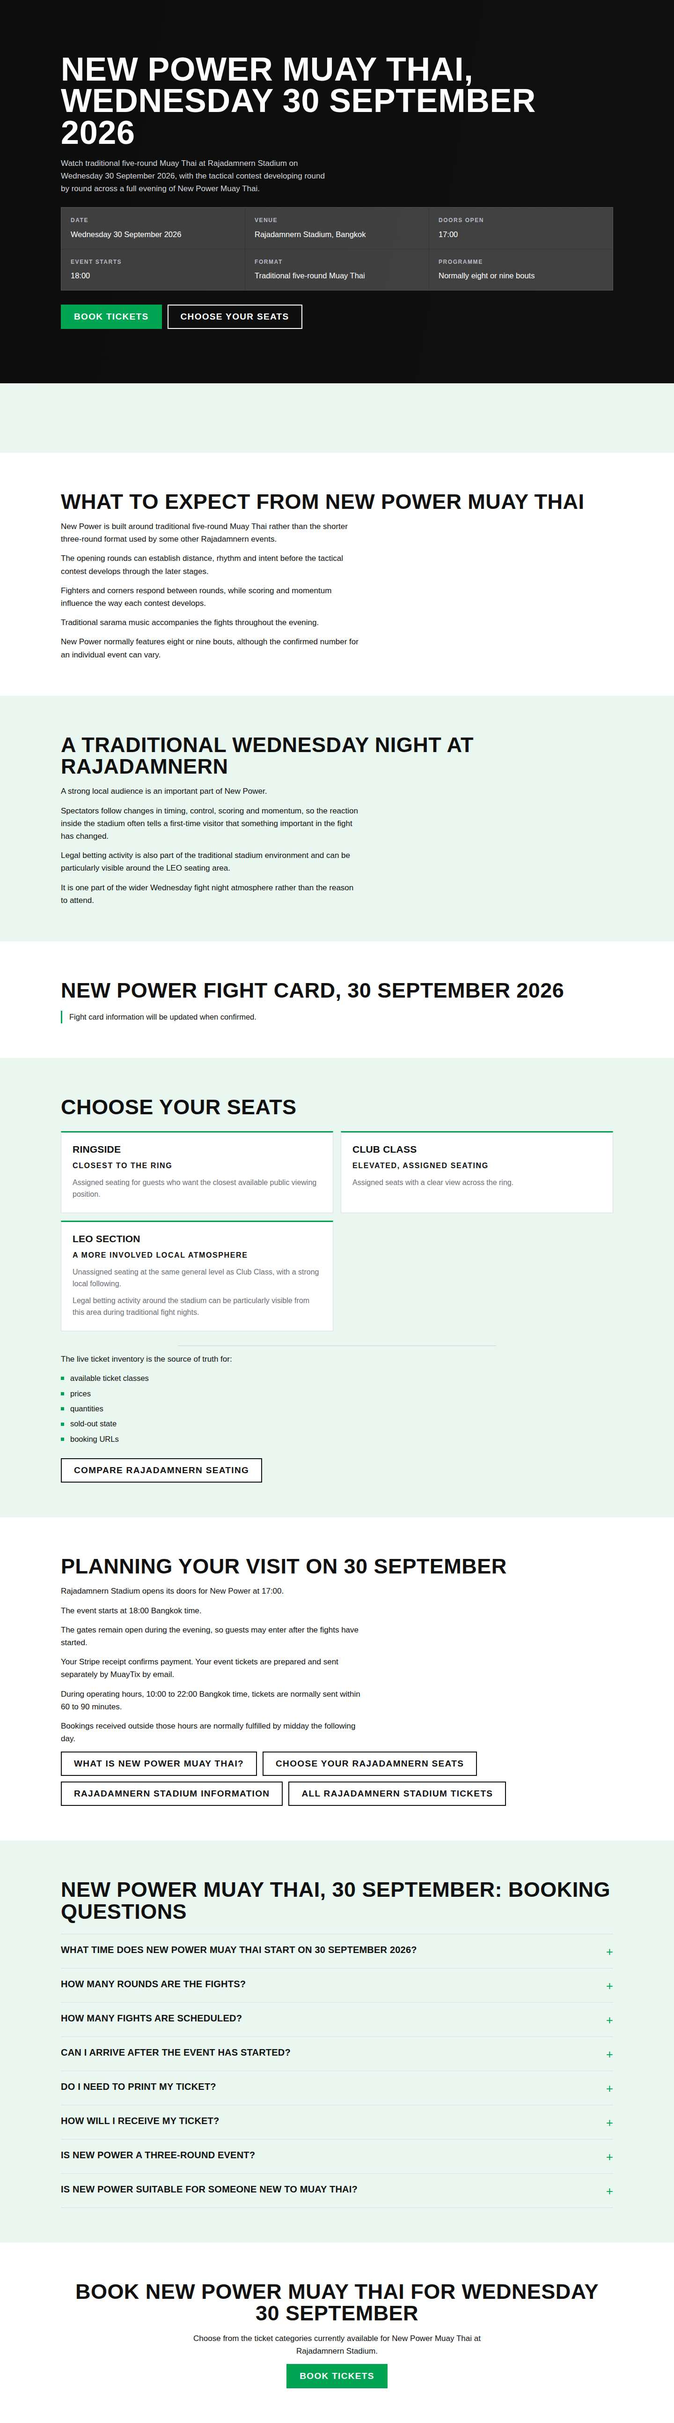
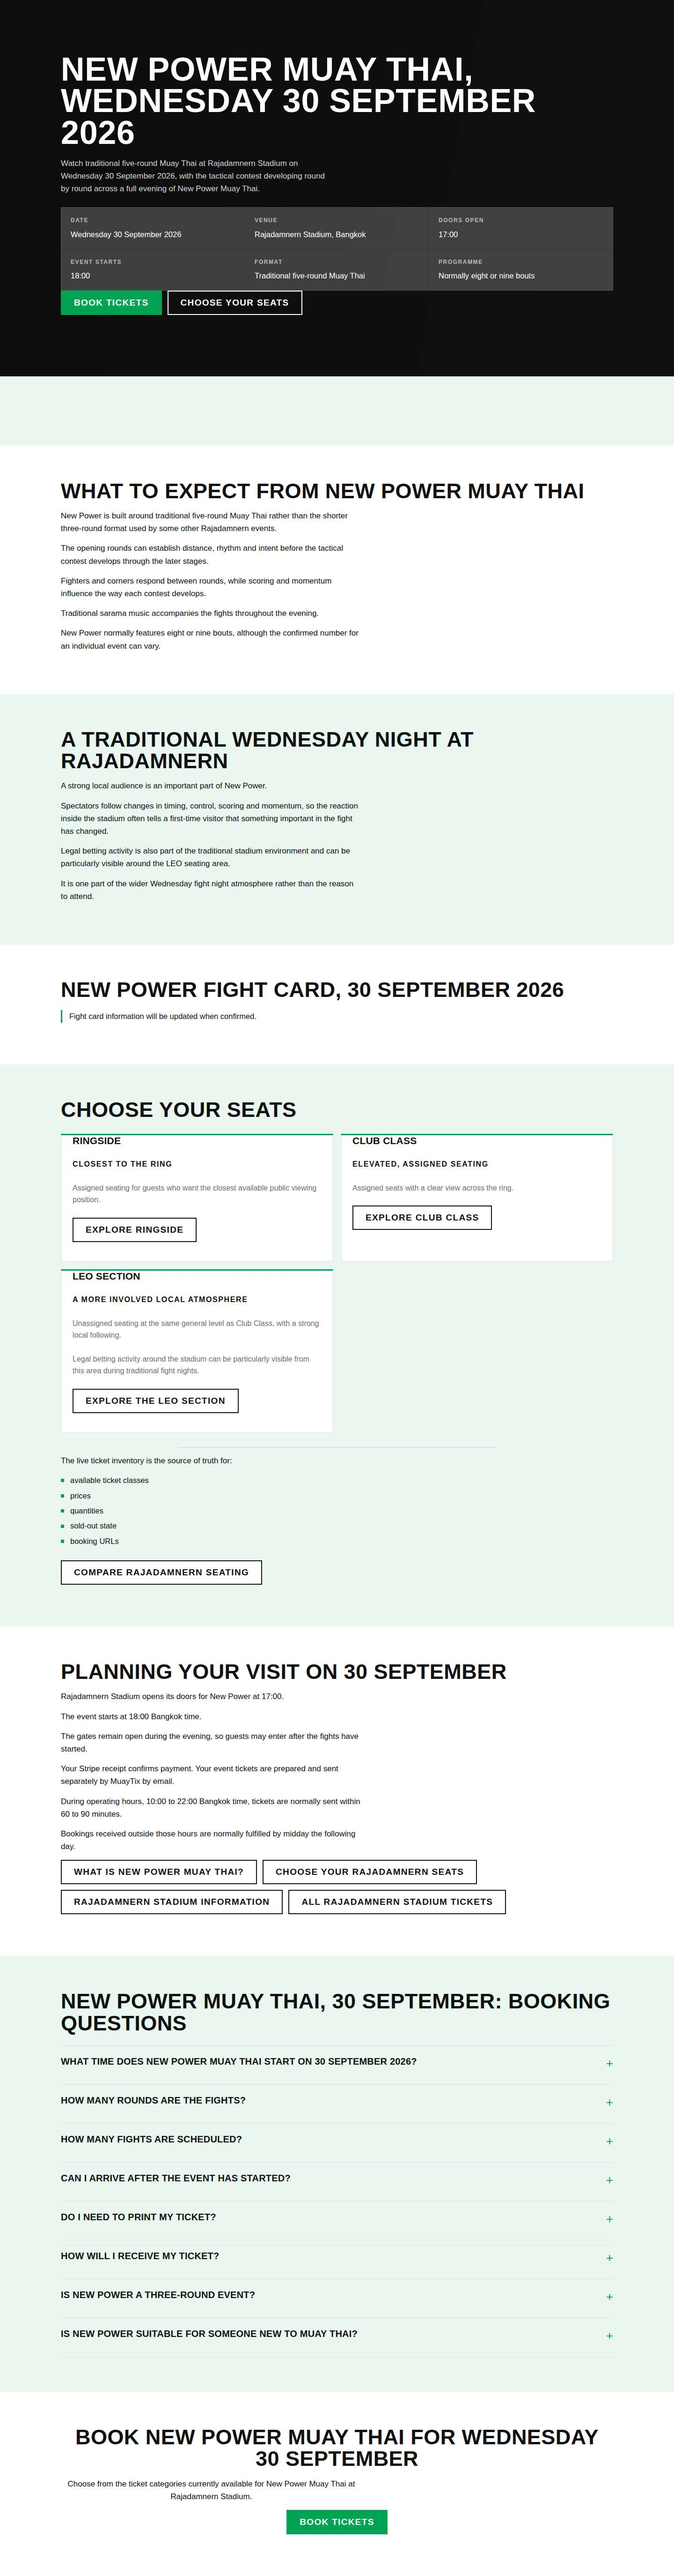
New Power: fix the desktop text-centering bug, add seat-card links
Root cause, found from Jason's screenshots of the live page: the page
wrapper was <div class="mtx-np"> with no id. Every other page in this
project wraps in id="mtx-xx" class="mtx-xx" specifically so it can
fight Tilda's own #allrecords * { text-align: center } with a rule
that also carries an ID (#mtx-xx.mtx-xx *), which then wins on equal
ID weight plus an extra class. New Power never had the id, so it had
nothing to fight back with -- Tilda's rule, an ID selector, beat every
single-class rule in this file outright. That is why it was "exactly
the same problem on exactly every single tile": one missing id, not a
design choice repeated badly section by section.

verify.mjs never caught it because it rendered on a blank page with
nothing competing, the same gap already documented and fixed in
pages/homepage-v6's own verify.mjs. Copied that fix here: TILDA_HOST
stand-in, #allrecords wrapper, and a dedicated check that fails if
anything comes back centred. Confirmed catching the bug against the
pre-fix CSS, then confirmed clean after.

Fix: id="mtx-np" added in build.mjs's wrapper, plus the standard
#mtx-np.mtx-np defensive block in style.css (text-align: left
everywhere, centred again for buttons and the closing band only, and
every button colour re-asserted against #allrecords a { color:
inherit }). This is one shared stylesheet, so it also un-centres the
dated page, which Jason asked not to be touched further today --
[…]

diff --git a/pages/new-power/hub-source.html b/pages/new-power/hub-source.html
@@ -9,7 +9,7 @@
   All visible wording is generated from document-a.txt, the approved editorial
   source. It is not typed into this file and must not be edited here.
 -->
-<div class="mtx-np">
+<div class="mtx-np" id="mtx-np">
 <style>
 /* All styles are scoped under .mtx-np so nothing here can affect the rest of
    the site, and the site's own styles are less likely to affect this block.
@@ -656,6 +656,46 @@
 /* The two Wednesday questions are open by default: Document A places them as
    body content in that section, not as a collapsed FAQ. */
 .mtx-np .mtx-np__faq { margin-top: 24px; }
+
+/* Every page in this project pastes into Tilda under one HTML block, and
+   Tilda's own host template carries `#allrecords * { text-align: center }`.
+   That is an ID selector, (1,0,0), and it beats every rule above here: none
+   of them sets text-align at all, so on the live page every lede, every
+   fact, every card title and every FAQ question came back centred, all for
+   the same reason, which is why it looked identical on every single tile.
+   This page was built without the ID every other page in this project
+   carries for exactly this fight (compare pages/homepage-v6/style.css or
+   pages/club-class/style.css). Found from a live screenshot, 30 September
+   2026, not caught here first: verify.mjs rendered on a blank page with
+   nothing competing, so it never saw this.
+
+   #mtx-np.mtx-np * is (1,1,1) and beats (1,0,0) outright, regardless of
+   source order. */
+#mtx-np.mtx-np,
+#mtx-np.mtx-np * { text-align: left; }
+
+/* The handful that genuinely centre are told again, one level higher. */
+#mtx-np.mtx-np .mtx-np__btn,
+#mtx-np.mtx-np .mtx-np__close,
+#mtx-np.mtx-np .mtx-np__close * { text-align: center; }
+
+/* Colour, stated the same way and for the same reason: a host rule shaped
+   like `#allrecords a { color: inherit }` is (1,0,1) and beats every
+   single-class button rule above it, which would have made the ghost and
+   outline buttons the same colour as the text around them. */
+#mtx-np.mtx-np a.mtx-np__btn--blue    { background: var(--np-blue); color: #fff; }
+#mtx-np.mtx-np a.mtx-np__btn--blue:hover    { background: var(--np-blue-dark); color: #fff; }
+#mtx-np.mtx-np a.mtx-np__btn--ghost   { background: transparent; border-color: #fff; color: #fff; }
+#mtx-np.mtx-np a.mtx-np__btn--ghost:hover   { background: #fff; color: var(--np-ink); }
+#mtx-np.mtx-np a.mtx-np__btn--outline { background: #fff; border-color: var(--np-ink); color: var(--np-ink); }
+#mtx-np.mtx-np a.mtx-np__btn--outline:hover { border-color: var(--np-blue); color: var(--np-blue); }
+#mtx-np.mtx-np a.mtx-np__btn--red     { background: var(--np-rws); color: #fff; }
+#mtx-np.mtx-np a.mtx-np__btn--red:hover     { background: var(--np-rws-dark); color: #fff; }
+
+/* The new per-class link on each seat card (Ringside, Club Class, LEO
+   Section). Third Class has no page yet, so its card gets no button, same
+   as everywhere else this has come up. */
+.mtx-np__cardgo { margin-top: 16px !important; }
 </style>
 
   <header class="mtx-np__hero">
@@ -729,6 +769,7 @@
           <h3>Ringside</h3>
           <p class="mtx-np__standfirst">Closest to the ring</p>
           <p>Assigned seating for guests who want the closest available public viewing position.</p>
+          <p class="mtx-np__cardgo"><a class="mtx-np__btn mtx-np__btn--outline" href="/rajadamnern-stadium-seating/ringside">Explore Ringside</a></p>
         </li>
 
         <li class="mtx-np__card mtx-np__card--gfx">
@@ -736,6 +777,7 @@
           <h3>Club Class</h3>
           <p class="mtx-np__standfirst">Elevated, assigned seating</p>
           <p>Assigned seats with a clear view across the ring.</p>
+          <p class="mtx-np__cardgo"><a class="mtx-np__btn mtx-np__btn--outline" href="/rajadamnern-stadium-seating/club-class">Explore Club Class</a></p>
         </li>
 
         <li class="mtx-np__card mtx-np__card--gfx">
@@ -744,6 +786,7 @@
           <p class="mtx-np__standfirst">A more involved local atmosphere</p>
           <p>Unassigned seating at the same general level as Club Class, with a strong local following.</p>
           <p>Legal betting activity around the stadium can be particularly visible from this area during traditional fight nights.</p>
+          <p class="mtx-np__cardgo"><a class="mtx-np__btn mtx-np__btn--outline" href="/rajadamnern-stadium-seating/leo-section">Explore the LEO Section</a></p>
         </li>
 
         <li class="mtx-np__card mtx-np__card--gfx">

diff --git a/pages/new-power/dated-source.html b/pages/new-power/dated-source.html
@@ -9,7 +9,7 @@
   All visible wording is generated from document-a.txt, the approved editorial
   source. It is not typed into this file and must not be edited here.
 -->
-<div class="mtx-np">
+<div class="mtx-np" id="mtx-np">
 <style>
 /* All styles are scoped under .mtx-np so nothing here can affect the rest of
    the site, and the site's own styles are less likely to affect this block.
@@ -656,6 +656,46 @@
 /* The two Wednesday questions are open by default: Document A places them as
    body content in that section, not as a collapsed FAQ. */
 .mtx-np .mtx-np__faq { margin-top: 24px; }
+
+/* Every page in this project pastes into Tilda under one HTML block, and
+   Tilda's own host template carries `#allrecords * { text-align: center }`.
+   That is an ID selector, (1,0,0), and it beats every rule above here: none
+   of them sets text-align at all, so on the live page every lede, every
+   fact, every card title and every FAQ question came back centred, all for
+   the same reason, which is why it looked identical on every single tile.
+   This page was built without the ID every other page in this project
+   carries for exactly this fight (compare pages/homepage-v6/style.css or
+   pages/club-class/style.css). Found from a live screenshot, 30 September
+   2026, not caught here first: verify.mjs rendered on a blank page with
+   nothing competing, so it never saw this.
+
+   #mtx-np.mtx-np * is (1,1,1) and beats (1,0,0) outright, regardless of
+   source order. */
+#mtx-np.mtx-np,
+#mtx-np.mtx-np * { text-align: left; }
+
+/* The handful that genuinely centre are told again, one level higher. */
+#mtx-np.mtx-np .mtx-np__btn,
+#mtx-np.mtx-np .mtx-np__close,
+#mtx-np.mtx-np .mtx-np__close * { text-align: center; }
+
+/* Colour, stated the same way and for the same reason: a host rule shaped
+   like `#allrecords a { color: inherit }` is (1,0,1) and beats every
+   single-class button rule above it, which would have made the ghost and
+   outline buttons the same colour as the text around them. */
+#mtx-np.mtx-np a.mtx-np__btn--blue    { background: var(--np-blue); color: #fff; }
+#mtx-np.mtx-np a.mtx-np__btn--blue:hover    { background: var(--np-blue-dark); color: #fff; }
+#mtx-np.mtx-np a.mtx-np__btn--ghost   { background: transparent; border-color: #fff; color: #fff; }
+#mtx-np.mtx-np a.mtx-np__btn--ghost:hover   { background: #fff; color: var(--np-ink); }
+#mtx-np.mtx-np a.mtx-np__btn--outline { background: #fff; border-color: var(--np-ink); color: var(--np-ink); }
+#mtx-np.mtx-np a.mtx-np__btn--outline:hover { border-color: var(--np-blue); color: var(--np-blue); }
+#mtx-np.mtx-np a.mtx-np__btn--red     { background: var(--np-rws); color: #fff; }
+#mtx-np.mtx-np a.mtx-np__btn--red:hover     { background: var(--np-rws-dark); color: #fff; }
+
+/* The new per-class link on each seat card (Ringside, Club Class, LEO
+   Section). Third Class has no page yet, so its card gets no button, same
+   as everywhere else this has come up. */
+.mtx-np__cardgo { margin-top: 16px !important; }
 </style>
 
   <header class="mtx-np__hero">
@@ -724,6 +764,7 @@
           <h3>Ringside</h3>
           <p class="mtx-np__standfirst">Closest to the ring</p>
           <p>Assigned seating for guests who want the closest available public viewing position.</p>
+          <p class="mtx-np__cardgo"><a class="mtx-np__btn mtx-np__btn--outline" href="/rajadamnern-stadium-seating/ringside">Explore Ringside</a></p>
         </li>
 
         <li class="mtx-np__card mtx-np__card--gfx">
@@ -731,6 +772,7 @@
           <h3>Club Class</h3>
           <p class="mtx-np__standfirst">Elevated, assigned seating</p>
           <p>Assigned seats with a clear view across the ring.</p>
+          <p class="mtx-np__cardgo"><a class="mtx-np__btn mtx-np__btn--outline" href="/rajadamnern-stadium-seating/club-class">Explore Club Class</a></p>
         </li>
 
         <li class="mtx-np__card mtx-np__card--gfx">
@@ -739,6 +781,7 @@
           <p class="mtx-np__standfirst">A more involved local atmosphere</p>
           <p>Unassigned seating at the same general level as Club Class, with a strong local following.</p>
           <p>Legal betting activity around the stadium can be particularly visible from this area during traditional fight nights.</p>
+          <p class="mtx-np__cardgo"><a class="mtx-np__btn mtx-np__btn--outline" href="/rajadamnern-stadium-seating/leo-section">Explore the LEO Section</a></p>
         </li>
       </ul>
         <p class="mtx-np__maplayout">

diff --git a/pages/new-power/new-power-HUB-PASTE-INTO-TILDA.html b/pages/new-power/new-power-HUB-PASTE-INTO-TILDA.html
@@ -1,4 +1,4 @@
-<div class="mtx-np">
+<div class="mtx-np" id="mtx-np">
 <style>.mtx-np, .mtx-np * { box-sizing: border-box; }
 .mtx-np {
   
@@ -476,7 +476,25 @@
 @media (max-width: 860px) { .mtx-np .mtx-np__factlist { grid-template-columns: repeat(2, minmax(0, 1fr)); } }
 @media (max-width: 620px) { .mtx-np .mtx-np__factlist { grid-template-columns: 1fr; } }
 
-.mtx-np .mtx-np__faq { margin-top: 24px; }</style>
+.mtx-np .mtx-np__faq { margin-top: 24px; }
+
+#mtx-np.mtx-np,
+#mtx-np.mtx-np * { text-align: left; }
+
+#mtx-np.mtx-np .mtx-np__btn,
+#mtx-np.mtx-np .mtx-np__close,
+#mtx-np.mtx-np .mtx-np__close * { text-align: center; }
+
+#mtx-np.mtx-np a.mtx-np__btn--blue    { background: var(--np-blue); color: #fff; }
+#mtx-np.mtx-np a.mtx-np__btn--blue:hover    { background: var(--np-blue-dark); color: #fff; }
+#mtx-np.mtx-np a.mtx-np__btn--ghost   { background: transparent; border-color: #fff; color: #fff; }
+#mtx-np.mtx-np a.mtx-np__btn--ghost:hover   { background: #fff; color: var(--np-ink); }
+#mtx-np.mtx-np a.mtx-np__btn--outline { background: #fff; border-color: var(--np-ink); color: var(--np-ink); }
+#mtx-np.mtx-np a.mtx-np__btn--outline:hover { border-color: var(--np-blue); color: var(--np-blue); }
+#mtx-np.mtx-np a.mtx-np__btn--red     { background: var(--np-rws); color: #fff; }
+#mtx-np.mtx-np a.mtx-np__btn--red:hover     { background: var(--np-rws-dark); color: #fff; }
+
+.mtx-np__cardgo { margin-top: 16px !important; }</style>
 
   <header class="mtx-np__hero">
       <p class="mtx-np__plain">The Garuda appears across Rajadamnern Stadium’s immersive dome above the Muay Thai ring, with green light beams illuminating the packed arena during New Power Muay Thai in Bangkok.</p>
@@ -549,6 +567,7 @@
           <h3>Ringside</h3>
           <p class="mtx-np__standfirst">Closest to the ring</p>
           <p>Assigned seating for guests who want the closest available public viewing position.</p>
+          <p class="mtx-np__cardgo"><a class="mtx-np__btn mtx-np__btn--outline" href="/rajadamnern-stadium-seating/ringside">Explore Ringside</a></p>
         </li>
 
         <li class="mtx-np__card mtx-np__card--gfx">
@@ -556,6 +575,7 @@
           <h3>Club Class</h3>
           <p class="mtx-np__standfirst">Elevated, assigned seating</p>
           <p>Assigned seats with a clear view across the ring.</p>
+          <p class="mtx-np__cardgo"><a class="mtx-np__btn mtx-np__btn--outline" href="/rajadamnern-stadium-seating/club-class">Explore Club Class</a></p>
         </li>
 
         <li class="mtx-np__card mtx-np__card--gfx">
@@ -564,6 +584,7 @@
           <p class="mtx-np__standfirst">A more involved local atmosphere</p>
           <p>Unassigned seating at the same general level as Club Class, with a strong local following.</p>
           <p>Legal betting activity around the stadium can be particularly visible from this area during traditional fight nights.</p>
+          <p class="mtx-np__cardgo"><a class="mtx-np__btn mtx-np__btn--outline" href="/rajadamnern-stadium-seating/leo-section">Explore the LEO Section</a></p>
         </li>
 
         <li class="mtx-np__card mtx-np__card--gfx">

diff --git a/pages/new-power/new-power-30-SEP-PASTE-INTO-TILDA.html b/pages/new-power/new-power-30-SEP-PASTE-INTO-TILDA.html
@@ -1,4 +1,4 @@
-<div class="mtx-np">
+<div class="mtx-np" id="mtx-np">
 <style>.mtx-np, .mtx-np * { box-sizing: border-box; }
 .mtx-np {
   
@@ -476,7 +476,25 @@
 @media (max-width: 860px) { .mtx-np .mtx-np__factlist { grid-template-columns: repeat(2, minmax(0, 1fr)); } }
 @media (max-width: 620px) { .mtx-np .mtx-np__factlist { grid-template-columns: 1fr; } }
 
-.mtx-np .mtx-np__faq { margin-top: 24px; }</style>
+.mtx-np .mtx-np__faq { margin-top: 24px; }
+
+#mtx-np.mtx-np,
+#mtx-np.mtx-np * { text-align: left; }
+
+#mtx-np.mtx-np .mtx-np__btn,
+#mtx-np.mtx-np .mtx-np__close,
+#mtx-np.mtx-np .mtx-np__close * { text-align: center; }
+
+#mtx-np.mtx-np a.mtx-np__btn--blue    { background: var(--np-blue); color: #fff; }
+#mtx-np.mtx-np a.mtx-np__btn--blue:hover    { background: var(--np-blue-dark); color: #fff; }
+#mtx-np.mtx-np a.mtx-np__btn--ghost   { background: transparent; border-color: #fff; color: #fff; }
+#mtx-np.mtx-np a.mtx-np__btn--ghost:hover   { background: #fff; color: var(--np-ink); }
+#mtx-np.mtx-np a.mtx-np__btn--outline { background: #fff; border-color: var(--np-ink); color: var(--np-ink); }
+#mtx-np.mtx-np a.mtx-np__btn--outline:hover { border-color: var(--np-blue); color: var(--np-blue); }
+#mtx-np.mtx-np a.mtx-np__btn--red     { background: var(--np-rws); color: #fff; }
+#mtx-np.mtx-np a.mtx-np__btn--red:hover     { background: var(--np-rws-dark); color: #fff; }
+
+.mtx-np__cardgo { margin-top: 16px !important; }</style>
 
   <header class="mtx-np__hero">
       <p class="mtx-np__plain">The Garuda appears across Rajadamnern Stadium’s immersive dome above the Muay Thai ring, with green light beams illuminating the packed arena during New Power Muay Thai in Bangkok.</p>
@@ -543,6 +561,7 @@
           <h3>Ringside</h3>
           <p class="mtx-np__standfirst">Closest to the ring</p>
           <p>Assigned seating for guests who want the closest available public viewing position.</p>
+          <p class="mtx-np__cardgo"><a class="mtx-np__btn mtx-np__btn--outline" href="/rajadamnern-stadium-seating/ringside">Explore Ringside</a></p>
         </li>
 
         <li class="mtx-np__card mtx-np__card--gfx">
@@ -550,6 +569,7 @@
           <h3>Club Class</h3>
           <p class="mtx-np__standfirst">Elevated, assigned seating</p>
           <p>Assigned seats with a clear view across the ring.</p>
+          <p class="mtx-np__cardgo"><a class="mtx-np__btn mtx-np__btn--outline" href="/rajadamnern-stadium-seating/club-class">Explore Club Class</a></p>
         </li>
 
         <li class="mtx-np__card mtx-np__card--gfx">
@@ -558,6 +578,7 @@
           <p class="mtx-np__standfirst">A more involved local atmosphere</p>
           <p>Unassigned seating at the same general level as Club Class, with a strong local following.</p>
           <p>Legal betting activity around the stadium can be particularly visible from this area during traditional fight nights.</p>
+          <p class="mtx-np__cardgo"><a class="mtx-np__btn mtx-np__btn--outline" href="/rajadamnern-stadium-seating/leo-section">Explore the LEO Section</a></p>
         </li>
       </ul>
         <p class="mtx-np__maplayout">

diff --git a/pages/new-power/style.css b/pages/new-power/style.css
@@ -643,3 +643,43 @@
 /* The two Wednesday questions are open by default: Document A places them as
    body content in that section, not as a collapsed FAQ. */
 .mtx-np .mtx-np__faq { margin-top: 24px; }
+
+/* Every page in this project pastes into Tilda under one HTML block, and
+   Tilda's own host template carries `#allrecords * { text-align: center }`.
+   That is an ID selector, (1,0,0), and it beats every rule above here: none
+   of them sets text-align at all, so on the live page every lede, every
+   fact, every card title and every FAQ question came back centred, all for
+   the same reason, which is why it looked identical on every single tile.
+   This page was built without the ID every other page in this project
+   carries for exactly this fight (compare pages/homepage-v6/style.css or
+   pages/club-class/style.css). Found from a live screenshot, 30 September
+   2026, not caught here first: verify.mjs rendered on a blank page with
+   nothing competing, so it never saw this.
+
+   #mtx-np.mtx-np * is (1,1,1) and beats (1,0,0) outright, regardless of
+   source order. */
+#mtx-np.mtx-np,
+#mtx-np.mtx-np * { text-align: left; }
+
+/* The handful that genuinely centre are told again, one level higher. */
+#mtx-np.mtx-np .mtx-np__btn,
+#mtx-np.mtx-np .mtx-np__close,
+#mtx-np.mtx-np .mtx-np__close * { text-align: center; }
+
+/* Colour, stated the same way and for the same reason: a host rule shaped
+   like `#allrecords a { color: inherit }` is (1,0,1) and beats every
+   single-class button rule above it, which would have made the ghost and
+   outline buttons the same colour as the text around them. */
+#mtx-np.mtx-np a.mtx-np__btn--blue    { background: var(--np-blue); color: #fff; }
+#mtx-np.mtx-np a.mtx-np__btn--blue:hover    { background: var(--np-blue-dark); color: #fff; }
+#mtx-np.mtx-np a.mtx-np__btn--ghost   { background: transparent; border-color: #fff; color: #fff; }
+#mtx-np.mtx-np a.mtx-np__btn--ghost:hover   { background: #fff; color: var(--np-ink); }
+#mtx-np.mtx-np a.mtx-np__btn--outline { background: #fff; border-color: var(--np-ink); color: var(--np-ink); }
+#mtx-np.mtx-np a.mtx-np__btn--outline:hover { border-color: var(--np-blue); color: var(--np-blue); }
+#mtx-np.mtx-np a.mtx-np__btn--red     { background: var(--np-rws); color: #fff; }
+#mtx-np.mtx-np a.mtx-np__btn--red:hover     { background: var(--np-rws-dark); color: #fff; }
+
+/* The new per-class link on each seat card (Ringside, Club Class, LEO
+   Section). Third Class has no page yet, so its card gets no button, same
+   as everywhere else this has come up. */
+.mtx-np__cardgo { margin-top: 16px !important; }

diff --git a/pages/new-power/hub-body.html b/pages/new-power/hub-body.html
@@ -69,6 +69,7 @@
           <h3>Ringside</h3>
           <p class="mtx-np__standfirst">Closest to the ring</p>
           <p>Assigned seating for guests who want the closest available public viewing position.</p>
+          <p class="mtx-np__cardgo"><a class="mtx-np__btn mtx-np__btn--outline" href="/rajadamnern-stadium-seating/ringside">Explore Ringside</a></p>
         </li>
 
         <li class="mtx-np__card mtx-np__card--gfx">
@@ -76,6 +77,7 @@
           <h3>Club Class</h3>
           <p class="mtx-np__standfirst">Elevated, assigned seating</p>
           <p>Assigned seats with a clear view across the ring.</p>
+          <p class="mtx-np__cardgo"><a class="mtx-np__btn mtx-np__btn--outline" href="/rajadamnern-stadium-seating/club-class">Explore Club Class</a></p>
         </li>
 
         <li class="mtx-np__card mtx-np__card--gfx">
@@ -84,6 +86,7 @@
           <p class="mtx-np__standfirst">A more involved local atmosphere</p>
           <p>Unassigned seating at the same general level as Club Class, with a strong local following.</p>
           <p>Legal betting activity around the stadium can be particularly visible from this area during traditional fight nights.</p>
+          <p class="mtx-np__cardgo"><a class="mtx-np__btn mtx-np__btn--outline" href="/rajadamnern-stadium-seating/leo-section">Explore the LEO Section</a></p>
         </li>
 
         <li class="mtx-np__card mtx-np__card--gfx">

diff --git a/pages/new-power/dated-body.html b/pages/new-power/dated-body.html
@@ -64,6 +64,7 @@
           <h3>Ringside</h3>
           <p class="mtx-np__standfirst">Closest to the ring</p>
           <p>Assigned seating for guests who want the closest available public viewing position.</p>
+          <p class="mtx-np__cardgo"><a class="mtx-np__btn mtx-np__btn--outline" href="/rajadamnern-stadium-seating/ringside">Explore Ringside</a></p>
         </li>
 
         <li class="mtx-np__card mtx-np__card--gfx">
@@ -71,6 +72,7 @@
           <h3>Club Class</h3>
           <p class="mtx-np__standfirst">Elevated, assigned seating</p>
           <p>Assigned seats with a clear view across the ring.</p>
+          <p class="mtx-np__cardgo"><a class="mtx-np__btn mtx-np__btn--outline" href="/rajadamnern-stadium-seating/club-class">Explore Club Class</a></p>
         </li>
 
         <li class="mtx-np__card mtx-np__card--gfx">
@@ -79,6 +81,7 @@
           <p class="mtx-np__standfirst">A more involved local atmosphere</p>
           <p>Unassigned seating at the same general level as Club Class, with a strong local following.</p>
           <p>Legal betting activity around the stadium can be particularly visible from this area during traditional fight nights.</p>
+          <p class="mtx-np__cardgo"><a class="mtx-np__btn mtx-np__btn--outline" href="/rajadamnern-stadium-seating/leo-section">Explore the LEO Section</a></p>
         </li>
       </ul>
         <p class="mtx-np__maplayout">
